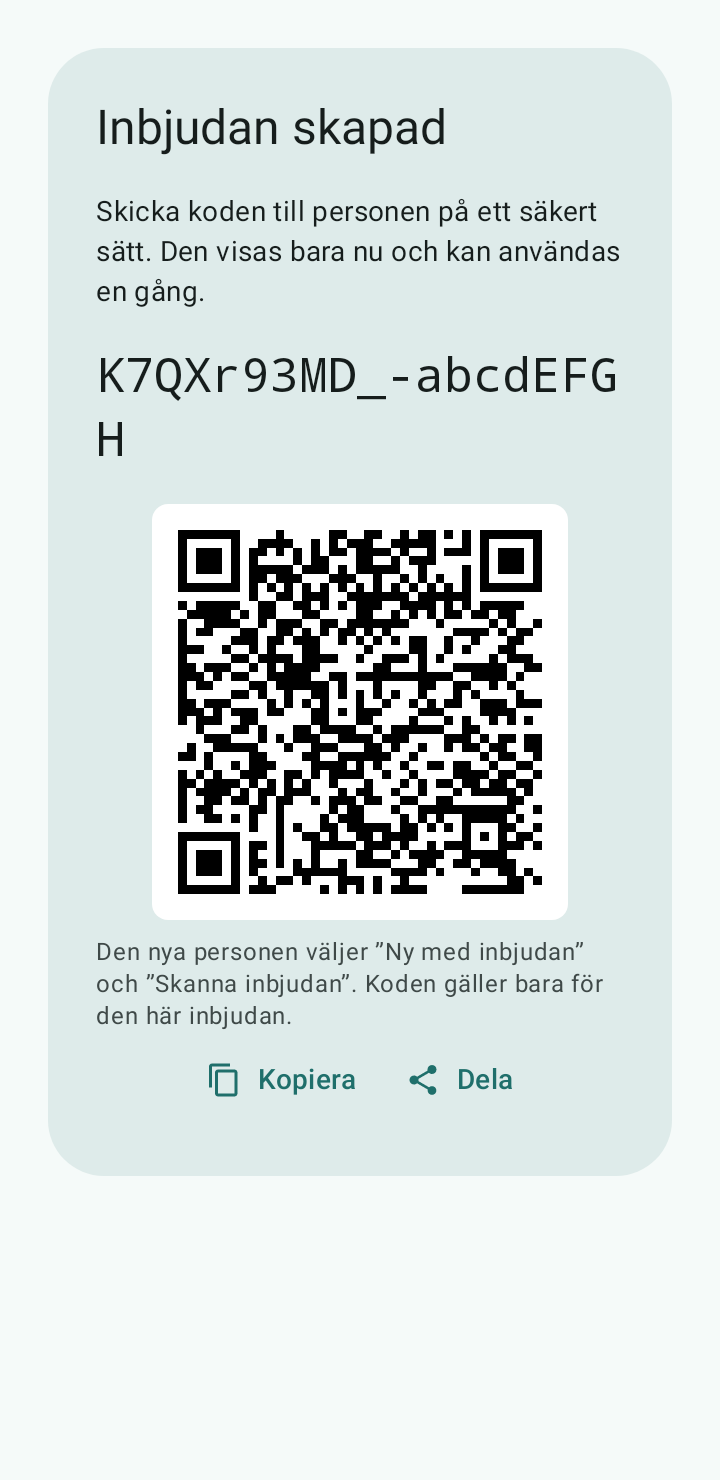
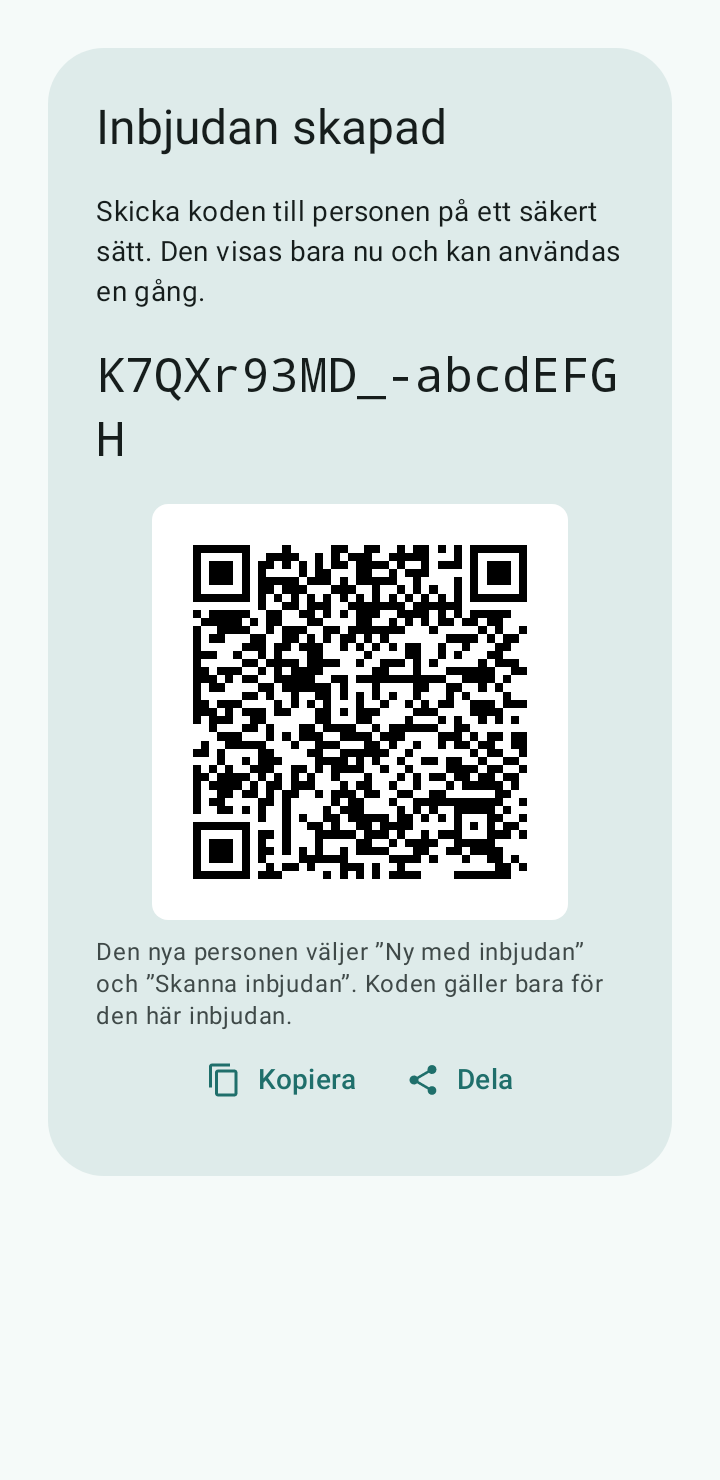
familychat android: make every generated QR code readable
zxing chose a mask for some payloads that its own detector cannot find (about one random
safety-number code in six). Decode each generated code once and fall back to the other masks;
use the spec quiet zone of 4 modules. Adds a stress test over 100 random safety numbers.

Claude-Session: https://claude.ai/code/session_018SvhjQJsNUbGA3gquiArH2

Changed region(s): [[0.2444, 0.3419, 0.7639, 0.6216]]

diff --git a/android/app/src/main/kotlin/se/familychat/app/qr/QrCode.kt b/android/app/src/main/kotlin/se/familychat/app/qr/QrCode.kt
@@ -18,18 +18,49 @@ import com.google.zxing.qrcode.decoder.ErrorCorrectionLevel
  * versioned text format ([SafetyQr], [InviteQr]) because binary QR payloads are decoded with a guessed charset.
  */
 object QrCode {
-    /** Quiet zone in modules; the spec asks for 4, 2 still scans well and keeps the code large on a small screen. */
-    private const val QUIET_ZONE = 2
+    /** Quiet zone in modules, as the QR spec asks (cameras need the margin). */
+    private const val QUIET_ZONE = 4
 
-    /** The modules of the QR code for [text] (true = dark), including the quiet zone. */
-    fun matrix(text: String): BitMatrix = QRCodeWriter().encode(
-        text, BarcodeFormat.QR_CODE, 0, 0,
-        mapOf(
+    /**
+     * The modules of the QR code for [text] (true = dark), including the quiet zone.
+     *
+     * zxing picks the mask by its penalty score, and for some payloads that mask leaves data that its own detector
+     * takes for finder patterns, so the code cannot be read (about one random safety-number code in six). Every code
+     * is therefore decoded once here, and if that fails the other masks are tried in turn.
+     */
+    fun matrix(text: String): BitMatrix {
+        val chosen = encode(text, mask = null)
+        if (readable(chosen, text)) return chosen
+        for (mask in 0 until MASK_PATTERNS) {
+            val m = encode(text, mask)
+            if (readable(m, text)) return m
+        }
+        return chosen
+    }
+
+    private const val MASK_PATTERNS = 8
+
+    private fun encode(text: String, mask: Int?): BitMatrix {
+        val hints = mutableMapOf<EncodeHintType, Any>(
             EncodeHintType.ERROR_CORRECTION to ErrorCorrectionLevel.M,
             EncodeHintType.CHARACTER_SET to "UTF-8",
             EncodeHintType.MARGIN to QUIET_ZONE,
-        ),
-    )
+        )
+        if (mask != null) hints[EncodeHintType.QR_MASK_PATTERN] = mask
+        return QRCodeWriter().encode(text, BarcodeFormat.QR_CODE, 0, 0, hints)
+    }
+
+    /** Whether zxing reads [m] back as [text], rendered at 4 pixels per module. */
+    private fun readable(m: BitMatrix, text: String): Boolean {
+        val scale = 4
+        val w = m.width * scale
+        val h = m.height * scale
+        val pixels = IntArray(w * h) { i -> if (m.get(i % w / scale, i / w / scale)) BLACK else WHITE }
+        return decode(RGBLuminanceSource(w, h, pixels)) == text
+    }
+
+    private const val BLACK = 0xFF000000.toInt()
+    private const val WHITE = 0xFFFFFFFF.toInt()
 
     /**
      * A black and white bitmap of the QR code for [text], [moduleSize] pixels per module. Black on white whatever the app

diff --git a/android/app/src/test/kotlin/se/familychat/app/qr/QrCodeTest.kt b/android/app/src/test/kotlin/se/familychat/app/qr/QrCodeTest.kt
@@ -59,6 +59,14 @@ class QrCodeTest {
         )
     }
 
+    @Test fun `every safety number code decodes, not just a lucky one`() {
+        // Payloads depend on random keys; a weak layout (too small a quiet zone) failed for some of them.
+        repeat(STRESS_PAIRS) {
+            val payload = SafetyQr.payload(number(Phone("a"), Phone("b")))
+            assertEquals(payload, QrCode.decode(QrCode.bitmap(payload)))
+        }
+    }
+
     @Test fun `scans that are not safety number codes are recognised`() {
         val n = number(anna, bertil)
         assertEquals(SafetyQr.ScanResult.NOT_A_SAFETY_CODE, SafetyQr.compare(n, "familychat://invite?v=1"))
@@ -76,5 +84,9 @@ class QrCodeTest {
         assertEquals(true, p.startsWith("fcsn1:"))
         assertEquals(true, p.length < 200)
         assertEquals(true, p.all { it.isLetterOrDigit() || it == ':' || it == '-' || it == '_' })
+    }
+
+    private companion object {
+        const val STRESS_PAIRS = 100
     }
 }
